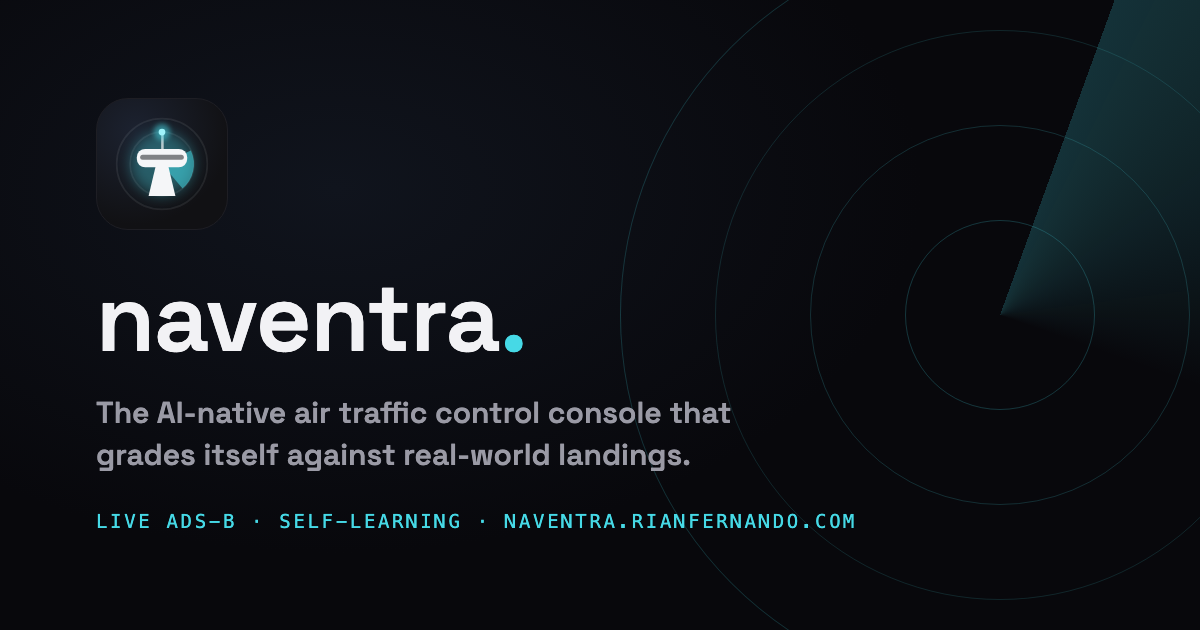
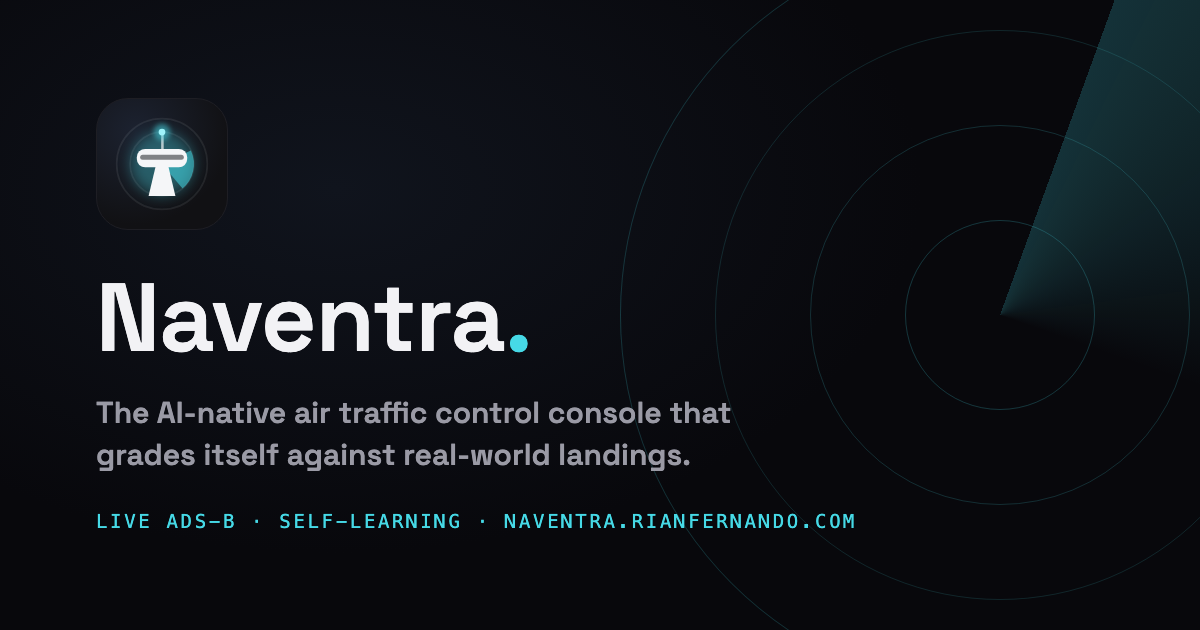
Capitalize Naventra wordmark in header and OG image

Changed region(s): [[0.0617, 0.4524, 0.4317, 0.573]]

diff --git a/src/components/Header.jsx b/src/components/Header.jsx
@@ -21,7 +21,7 @@ export default function Header({ airport, icao, setIcao, mode, source, forceSim,
       <div className="brand">
         <img className="brand-logo" src="/naventra-mark.svg" alt="Naventra — control tower in a radar sweep" width="30" height="30" />
         <div>
-          <div className="brand-name">naventra</div>
+          <div className="brand-name">Naventra</div>
           <div className="brand-sub">AI Air Traffic Command</div>
         </div>
       </div>